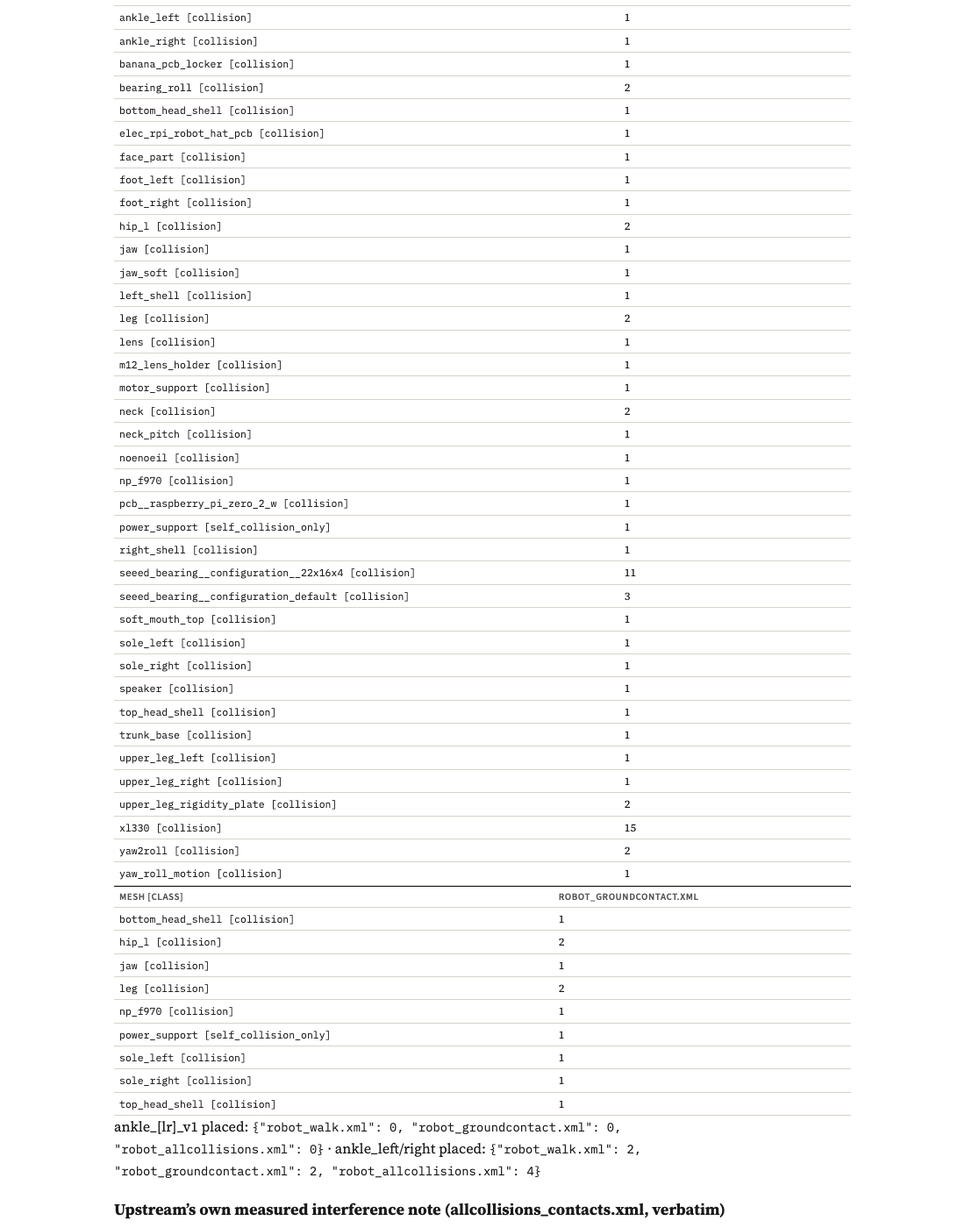
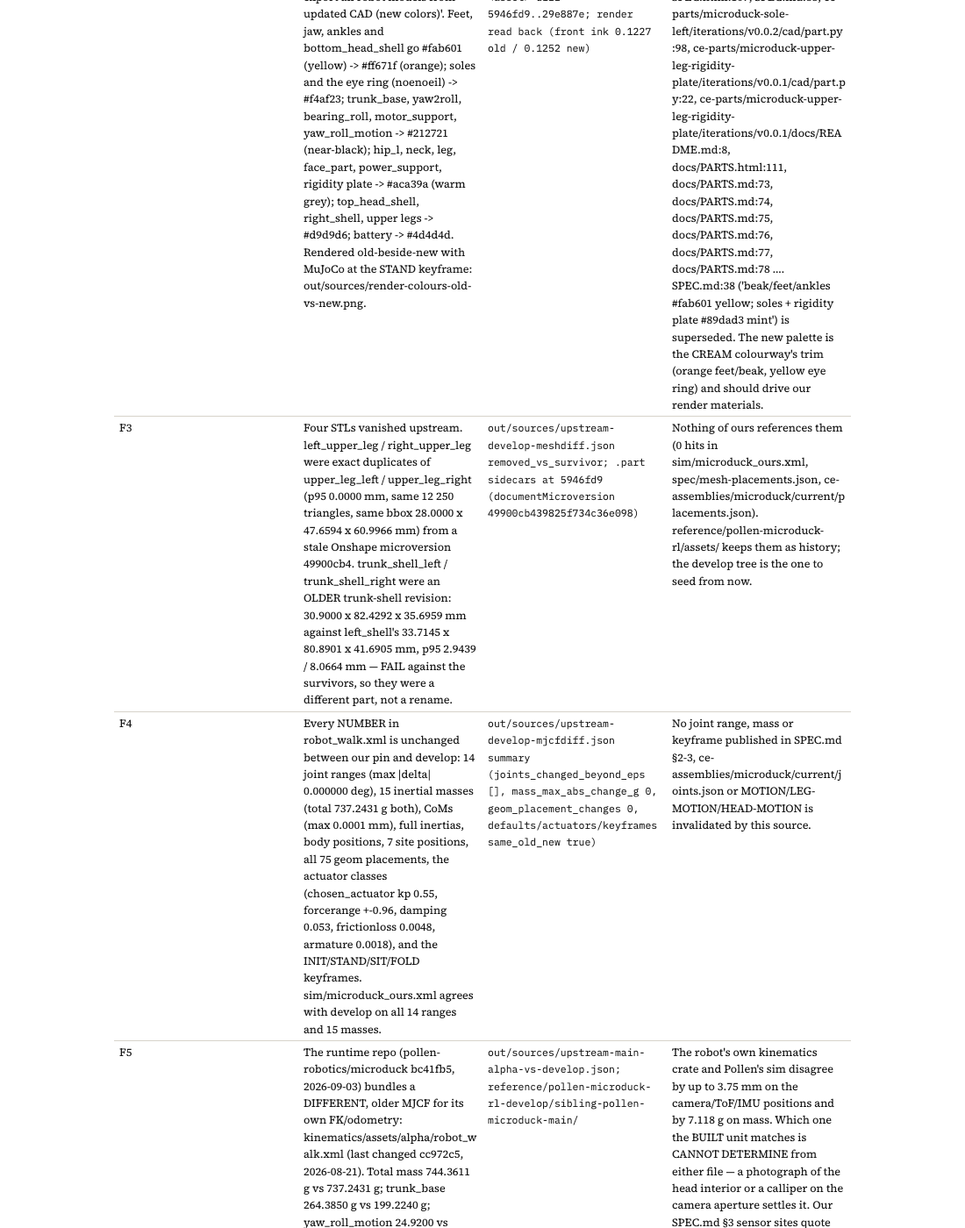
sources lane: SOURCE 2 deliverable — out/sources/upstream-develop.json + .html (tools/gen_upstream_develop.py, data-driven). pollen-robotics/microduck_rl develop 29e887e vs our 5946fd9 pin: 43/43 meshes same surface (p95 0.0000 mm both ways, bbox 0.0000), 0 STLs added, 4 removed (2 exact duplicates,

Changed region(s): [[0.1236, 0.0, 0.8655, 1.0]]

diff --git a/out/sources/upstream-develop.html b/out/sources/upstream-develop.html
@@ -11,12 +11,14 @@
  table.data{font-size:12.5px;border-collapse:collapse;width:100%} table.data th,table.data td{padding:3px 6px;border-bottom:1px solid var(--hair);text-align:left;vertical-align:top}
  table.data td code{font-size:11.5px} figure{margin:12px 0} figure img{width:100%;background:#fff;border:1px solid var(--hair)} figcaption{font-family:var(--sans);font-size:12.5px;color:var(--ink-2)}
  pre.q{font-size:12px;background:#faf8f3;border-left:3px solid var(--hair);padding:8px 12px;white-space:pre-wrap}
+ /* 11-column mesh table MEASURED 1015 px in an 840 px sheet at the inherited size (shot_page 2026-09-03): fixed layout + wrapping keeps every column on the printed page */
+ #meshes table.data{font-size:10.5px;table-layout:fixed;width:100%} #meshes td,#meshes th{overflow-wrap:anywhere} #meshes table.data th,#meshes table.data td{padding:2px 3px} #meshes td code{font-size:10px}
  #findings table.data{table-layout:fixed} #findings td:nth-child(1){width:32px} #findings td:nth-child(2){width:44%} #findings td:nth-child(3){width:22%} #findings td{overflow-wrap:anywhere}
 </style></head><body><div class="wrap">
 <p class="backlink"><a href="../../INDEX.html">← Repository index</a> · <a href="../../GOAL.md">GOAL.md</a> · <a href="../../SPEC.md">SPEC.md</a></p>
 <header class="hero"><p class="eyebrow">Microduck reverse-engineering · new sources · source 2</p>
 <h1>pollen-robotics/microduck_rl, <code>develop</code> — what moved since the copy that seeded us</h1>
-<p class="sub">The same origin as every mesh and number in our model, one branch and 24 commits later. Fetched, pinned at <code>29e887e</code>, licence quoted, then diffed file by file, mesh by mesh (cecad.meshcompare, SPEC.md §8 rule) and number by number against our <code>5946fd9</code> copy, our SPEC.md, joints.json and sim/microduck_ours.xml. Generated 2026-09-03 23:26 +0800 by tools/gen_upstream_develop.py from out/sources/*.json.</p>
+<p class="sub">The same origin as every mesh and number in our model, one branch and 24 commits later. Fetched, pinned at <code>29e887e</code>, licence quoted, then diffed file by file, mesh by mesh (cecad.meshcompare, SPEC.md §8 rule) and number by number against our <code>5946fd9</code> copy, our SPEC.md, joints.json and sim/microduck_ours.xml. Generated 2026-09-04 02:01 +0800 by tools/gen_upstream_develop.py from out/sources/*.json.</p>
 <div class="rev">Leif, verbatim: “Give the microduck these researches to injest and utilize … the cad and 3d printable files and stuff should be in these resourches tell it to dive deeply into it”.</div></header>
 <div class="statbar">
  <div class="stat"><b>43</b><span>meshes in both trees</span></div>
@@ -25,7 +27,7 @@
  <div class="stat"><b>4</b><span>STLs removed upstream</span></div>
  <div class="stat"><b>0 / 0</b><span>joint ranges / masses changed</span></div>
  <div class="stat"><b>27/38</b><span>material colours changed</span></div>
- <div class="stat"><b>56</b><span>lines of ours printing the old palette</span></div>
+ <div class="stat"><b>53</b><span>lines of ours printing the old palette</span></div>
  <div class="stat"><b>+7.1180 g</b><span>runtime MJCF vs sim MJCF</span></div>
 </div>
 <nav class="toc"><a href="#answer">1 Verdict</a> <a href="#pin">2 Pin &amp; licence</a> <a href="#files">3 Files</a> <a href="#meshes">4 Meshes</a> <a href="#numbers">5 Numbers</a> <a href="#colours">6 Colours</a> <a href="#runtime">7 Runtime model</a> <a href="#census">8 Censuses</a> <a href="#findings">9 Findings</a> <a href="#verdicts">10 Verdicts</a> <a href="#docs">11 Our documents to update</a></nav>
@@ -271,15 +273,15 @@ ATTRIBUTION: Pollen Robotics (Bordeaux), Antoine Pirrone (apirrone) — exported
 </pre></section>
 <section id="findings"><h2><span class="n">9</span>Findings</h2><table class="data"><tr><th>#</th><th>finding</th><th>evidence</th><th>what it changes</th></tr>
 <tr><td>F1</td><td>The develop tree carries NO geometry our seeded copy lacks. All 43 common STLs are the same surface: p95 0.0000 mm both ways and bbox delta 0.0000 mm on every axis (SPEC.md §8 rule, 15 000 area-weighted samples each way, no alignment). 8 meshes were re-triangulated by the re-export (different vertex set, same surface; worst single sample 2.3557 mm on upper_leg_left is a chord of the new tessellation, not a moved face). No fastener seats, insert bosses, ball sockets, STEP, print files or assembly exist anywhere in the tree — it is still onshape-to-robot&#x27;s decimated visual export (`max_stl_size: 1.0`, `simplify_stls: true` in every config_mjcf_*.json).</td><td><code>out/sources/upstream-develop-meshdiff.json (43 rows); config_mjcf_walk.json:6-7; git ls-tree 29e887e -- src/mjlab_microduck/robot/microduck (no .step/.3mf/.f3d)</code></td><td>Nothing in the CAD. The 145-hole / zero-fastener gap (GOAL.md standing order 1) is NOT closed by this source; it stays with the fastener lane and the MakerWorld source (SOURCE 1).</td></tr>
-<tr><td>F2</td><td>What DID move is colour: 27 of 38 &lt;material rgba&gt; values changed in commit 8dfc08f &#x27;re-export all robot models from updated CAD (new colors)&#x27;. Feet, jaw, ankles and bottom_head_shell go #fab601 (yellow) -&gt; #ff671f (orange); soles and the eye ring (noenoeil) -&gt; #f4af23; trunk_base, yaw2roll, bearing_roll, motor_support, yaw_roll_motion -&gt; #212721 (near-black); hip_l, neck, leg, face_part, power_support, rigidity plate -&gt; #aca39a (warm grey); top_head_shell, right_shell, upper legs -&gt; #d9d9d6; battery -&gt; #4d4d4d. Rendered old-beside-new with MuJoCo at the STAND keyframe: out/sources/render-colours-old-vs-new.png.</td><td><code>out/sources/upstream-develop-mjcfdiff.json materials; robot_walk.xml &lt;asset&gt; diff 5946fd9..29e887e; render read back (front ink 0.1227 old / 0.1252 new)</code></td><td>Every document of ours that prints the OLD MJCF palette as Pollen&#x27;s: 56 lines — SPEC.html:107, SPEC.md:38, ce-parts/microduck-sole-left/iterations/v0.0.2/cad/part.py:98, ce-parts/microduck-upper-leg-rigidity-plate/iterations/v0.0.1/cad/part.py:22, ce-parts/microduck-upper-leg-rigidity-plate/iterations/v0.0.1/docs/README.md:8, docs/PARTS.html:111, docs/PARTS.md:73, docs/PARTS.md:74, docs/PARTS.md:75, docs/PARTS.md:76, docs/PARTS.md:77, docs/PARTS.md:78 …. SPEC.md:38 (&#x27;beak/feet/ankles #fab601 yellow; soles + rigidity plate #89dad3 mint&#x27;) is superseded. The new palette is the CREAM colourway&#x27;s trim (orange feet/beak, yellow eye ring) and should drive our render materials.</td></tr>
+<tr><td>F2</td><td>What DID move is colour: 27 of 38 &lt;material rgba&gt; values changed in commit 8dfc08f &#x27;re-export all robot models from updated CAD (new colors)&#x27;. Feet, jaw, ankles and bottom_head_shell go #fab601 (yellow) -&gt; #ff671f (orange); soles and the eye ring (noenoeil) -&gt; #f4af23; trunk_base, yaw2roll, bearing_roll, motor_support, yaw_roll_motion -&gt; #212721 (near-black); hip_l, neck, leg, face_part, power_support, rigidity plate -&gt; #aca39a (warm grey); top_head_shell, right_shell, upper legs -&gt; #d9d9d6; battery -&gt; #4d4d4d. Rendered old-beside-new with MuJoCo at the STAND keyframe: out/sources/render-colours-old-vs-new.png.</td><td><code>out/sources/upstream-develop-mjcfdiff.json materials; robot_walk.xml &lt;asset&gt; diff 5946fd9..29e887e; render read back (front ink 0.1227 old / 0.1252 new)</code></td><td>Every document of ours that prints the OLD MJCF palette as Pollen&#x27;s: 53 lines — SPEC.html:107, SPEC.md:38, ce-parts/microduck-sole-left/iterations/v0.0.2/cad/part.py:98, ce-parts/microduck-upper-leg-rigidity-plate/iterations/v0.0.1/cad/part.py:22, ce-parts/microduck-upper-leg-rigidity-plate/iterations/v0.0.1/docs/README.md:8, docs/PARTS.html:111, docs/PARTS.md:73, docs/PARTS.md:74, docs/PARTS.md:75, docs/PARTS.md:76, docs/PARTS.md:77, docs/PARTS.md:78 …. SPEC.md:38 (&#x27;beak/feet/ankles #fab601 yellow; soles + rigidity plate #89dad3 mint&#x27;) is superseded. The new palette is the CREAM colourway&#x27;s trim (orange feet/beak, yellow eye ring) and should drive our render materials.</td></tr>
 <tr><td>F3</td><td>Four STLs vanished upstream. left_upper_leg / right_upper_leg were exact duplicates of upper_leg_left / upper_leg_right (p95 0.0000 mm, same 12 250 triangles, same bbox 28.0000 x 47.6594 x 60.9966 mm) from a stale Onshape microversion 49900cb4. trunk_shell_left / trunk_shell_right were an OLDER trunk-shell revision: 30.9000 x 82.4292 x 35.6959 mm against left_shell&#x27;s 33.7145 x 80.8901 x 41.6905 mm, p95 2.9439 / 8.0664 mm — FAIL against the survivors, so they were a different part, not a rename.</td><td><code>out/sources/upstream-develop-meshdiff.json removed_vs_survivor; .part sidecars at 5946fd9 (documentMicroversion 49900cb439825f734c36e098)</code></td><td>Nothing of ours references them (0 hits in sim/microduck_ours.xml, spec/mesh-placements.json, ce-assemblies/microduck/current/placements.json). reference/pollen-microduck-rl/assets/ keeps them as history; the develop tree is the one to seed from now.</td></tr>
 <tr><td>F4</td><td>Every NUMBER in robot_walk.xml is unchanged between our pin and develop: 14 joint ranges (max |delta| 0.000000 deg), 15 inertial masses (total 737.2431 g both), CoMs (max 0.0001 mm), full inertias, body positions, 7 site positions, all 75 geom placements, the actuator classes (chosen_actuator kp 0.55, forcerange +-0.96, damping 0.053, frictionloss 0.0048, armature 0.0018), and the INIT/STAND/SIT/FOLD keyframes. sim/microduck_ours.xml agrees with develop on all 14 ranges and 15 masses.</td><td><code>out/sources/upstream-develop-mjcfdiff.json summary (joints_changed_beyond_eps [], mass_max_abs_change_g 0, geom_placement_changes 0, defaults/actuators/keyframes same_old_new true)</code></td><td>No joint range, mass or keyframe published in SPEC.md §2-3, ce-assemblies/microduck/current/joints.json or MOTION/LEG-MOTION/HEAD-MOTION is invalidated by this source.</td></tr>
 <tr><td>F5</td><td>The runtime repo (pollen-robotics/microduck bc41fb5, 2026-09-03) bundles a DIFFERENT, older MJCF for its own FK/odometry: kinematics/assets/alpha/robot_walk.xml (last changed cc972c5, 2026-08-21). Total mass 744.3611 g vs 737.2431 g; trunk_base 264.3850 g vs 199.2240 g; yaw_roll_motion 24.9200 vs 48.6000 g; ankles 26.4653 vs 30.0246 g; the head body is still named bottom_head_shell (develop: jaw_soft); head_camera / head_imu / tof sites sit +3.7500 mm further forward (x) and +0.2000 mm up; the trunk imu site is at z -14.8911 vs -14.6984 mm; the neck body origin differs by (0, -0.0011, -0.0209) mm; and it carries an extra site imu_bno at (-32.0000, 14.0011, 43.0618) mm that develop dropped. Joint ranges are identical (max 3.0e-12 deg).</td><td><code>out/sources/upstream-main-alpha-vs-develop.json; reference/pollen-microduck-rl-develop/sibling-pollen-microduck-main/</code></td><td>The robot&#x27;s own kinematics crate and Pollen&#x27;s sim disagree by up to 3.75 mm on the camera/ToF/IMU positions and by 7.118 g on mass. Which one the BUILT unit matches is CANNOT DETERMINE from either file — a photograph of the head interior or a calliper on the camera aperture settles it. Our SPEC.md §3 sensor sites quote the sim values; they should say the runtime disagrees.</td></tr>
 <tr><td>F6</td><td>Pollen MEASURED an interference in their own model and wrote it into the tree: allcollisions_contacts.xml — &#x27;The jaw closed-loop linkage positions the jaw/bottom_head_shell meshes (merged into the jaw_soft body) 2-4.5mm inside the neck_pitch bracket and its bearing in EVERY pose - a permanent phantom self-contact, measured at the INIT/STAND/SIT keyframes on the 2026-09 export.&#x27; They exclude the neck_pitch/jaw_soft contact pair rather than move geometry.</td><td><code>reference/pollen-microduck-rl-develop/microduck/allcollisions_contacts.xml:1-10; additional.xml:8-12 (the older &#x27;jaw overlaps bottom head shell by ~2cm&#x27; note)</code></td><td>The head-to-neck_pitch interface cannot be taken from these meshes as-is: as placed, the head shells penetrate the neck_pitch bracket by 2-4.5 mm. The joints/harness lane must measure that clash on our assembly (cecad.clearance) and the real bracket clearance is CANNOT DETERMINE until a unit is measured.</td></tr>
 <tr><td>F7</td><td>New upstream file robot_allcollisions.xml is a TRUE all-collisions export (every part gets a collision geom) and doubles as a per-instance census: 70 collision geoms over 37 meshes — xl330 x15, seeed_bearing 22x16x4 x11, seeed_bearing default (15x10x3) x3, neck x2, leg x2, hip_l x2, bearing_roll x2, yaw2roll x2, upper_leg_rigidity_plate x2, everything else x1; power_support demoted to self_collision_only.</td><td><code>regex census of reference/pollen-microduck-rl-develop/microduck/robot_allcollisions.xml (this generator, collision_census)</code></td><td>Corroborates SPEC.md §4 (15 servos, bearings 11 + 3). A ready-made full-contact model for the simulation lane&#x27;s drop/self-collision runs — no task upstream uses it yet (microduck_constants.py:22-25).</td></tr>
 <tr><td>F8</td><td>Upstream defect inherited by every sim of ours copied from &#x27;allcollisions&#x27;: config_mjcf_groundcontact.json&#x27;s ignore list un-ignores parts by their OLD Onshape names (&#x27;!left_upper_leg&#x27;, &#x27;!right_upper_leg&#x27;, &#x27;!trunk_shell_left&#x27;, &#x27;!trunk_shell_right&#x27;), but the exported parts are now named upper_leg_left / left_shell etc., so the thighs and the trunk shells carry NO collision geom in robot_groundcontact.xml (measured census: bottom_head_shell, hip_l x2, jaw, leg x2, np_f970, sole_left, sole_right, top_head_shell, power_support[self] — nothing else). microduck_constants.py:17-20 claims the set includes &#x27;trunk shells&#x27;. Same census in our 5946fd9 copy&#x27;s robot_allcollisions.xml.</td><td><code>config_mjcf_groundcontact.json:8-21; regex census of robot_groundcontact.xml (this generator); .part names upper_leg_left &lt;1&gt;, left_shell &lt;1&gt;</code></td><td>out/sim-sweep/scene_walk_allcollisions.xml and every &#x27;allcollisions&#x27; run in SIMULATION.html modelled a robot whose thighs and egg shells cannot touch the floor. Sit/stand/roulade and fall results that rest on that model need re-judging against robot_allcollisions.xml (F7).</td></tr>
-<tr><td>F9</td><td>Licence, settled from the primary text: README.md:260-261 at 29e887e reads &#x27;This project is licensed under the Apache 2.0 License. See the LICENSE file for details.&#x27; / &#x27;3D model files are licensed under Creative Commons BY-SA-NC.&#x27; — no version number, and the CC text is not shipped (LICENSE is Apache-2.0 only). The same two lines were at README.md:195-196 in our 5946fd9 copy.</td><td><code>reference/pollen-microduck-rl-develop/microduck_rl_README.md:258-261; reference/pollen-microduck-rl-develop/LICENSE-Apache-2.0.txt</code></td><td>Cite &#x27;CC BY-SA-NC (version not stated)&#x27;. 40 lines of ours assert &#x27;4.0&#x27; that the source does not: ce-parts/microduck-bottom-head-shell/component.json:13, ce-parts/microduck-eye-ring/iterations/v0.0.1/cad/part.py:6, ce-parts/microduck-face-part/component.json:13, ce-parts/microduck-foot-left/component.json:11, ce-parts/microduck-foot-left/iterations/v0.0.1/cad/part.py:7, ce-parts/microduck-foot-left/iterations/v0.0.1/docs/README.md:3, ce-parts/microduck-foot-right/component.json:11, ce-parts/microduck-foot-right/iterations/v0.0.1/cad/part.py:7, ce-parts/microduck-foot-right/iterations/v0.0.1/docs/README.md:3, ce-parts/microduck-jaw-soft/component.json:11, ce-parts/microduck-jaw-soft/iterations/v0.0.1/cad/part.py:7, ce-parts/microduck-jaw-soft/iterations/v0.0.1/docs/README.md:3, ce-parts/microduck-jaw/component.json:11, ce-parts/microduck-jaw/iterations/v0.0.1/cad/part.py:7, ce-parts/microduck-jaw/iterations/v0.0.1/docs/README.md:3, ce-parts/microduck-m12-lens-holder/component.json:13, ce-parts/microduck-m12-lens/component.json:13, ce-parts/microduck-motor-support/iterations/v0.0.1/cad/part.py:7, ce-parts/microduck-motor-support/iterations/v0.0.1/docs/README.md:3, ce-parts/microduck-robot-hat-pcb/component.json:13, ce-parts/microduck-soft-mouth-top/component.json:11, ce-parts/microduck-soft-mouth-top/iterations/v0.0.1/cad/part.py:7, ce-parts/microduck-soft-mouth-top/iterations/v0.0.1/docs/README.md:3, ce-parts/microduck-sole-left/component.json:11, ce-parts/microduck-sole-left/iterations/v0.0.1/cad/part.py:7, ce-parts/microduck-sole-left/iterations/v0.0.1/docs/README.md:3, ce-parts/microduck-sole-right/component.json:11, ce-parts/microduck-sole-right/iterations/v0.0.1/cad/part.py:7, ce-parts/microduck-sole-right/iterations/v0.0.1/docs/README.md:3, ce-parts/microduck-top-head-shell/component.json:11, ce-parts/microduck-top-head-shell/iterations/v0.0.1/cad/part.py:7, ce-parts/microduck-top-head-shell/iterations/v0.0.1/docs/README.md:3, ce-parts/microduck-trunk-shell-left/component.json:11, ce-parts/microduck-trunk-shell-left/iterations/v0.0.1/cad/part.py:7, ce-parts/microduck-trunk-shell-left/iterations/v0.0.1/docs/README.md:3, ce-parts/microduck-trunk-shell-right/component.json:11, ce-parts/microduck-trunk-shell-right/iterations/v0.0.1/cad/part.py:7, ce-parts/microduck-trunk-shell-right/iterations/v0.0.1/docs/README.md:3, tools/head_eye_ring_shelve.py:28 — ce-parts/microduck-eye-ring/component.json:15 already has it right (&#x27;version not stated&#x27;); the two &#x27;4.0&#x27; strings are lane A&#x27;s to drop.</td></tr>
-<tr><td>F10</td><td>Runtime constants read off pollen-robotics/microduck (bc41fb5) corroborate SPEC.md: mouth travel -5 deg closed / +30 deg open (duck-control/src/model.rs:62-63); battery window 6.6-8.2 V (model.rs:109,113 BATTERY_EMPTY_V/BATTERY_FULL_V); servo position gain 200 (deploy/robotd.toml:136 &#x27;gain = 200&#x27;, joints_properties.xml &#x27;200 kp&#x27;, microduck_constants.py kp_fw=200); IDs 30-34 = neck, head, mouth (model.rs:17); bus /dev/ttyS2 at 50 Hz (robotd.toml:20,41). The ToF is named specifically: &#x27;tof VL53L8CX · 15 Hz · 8x8 · 48/64 ranged · 0.12-3.54 m&#x27; (docs/robot/cheatsheet.md:691) where SPEC.md §5 hedges &#x27;VL53L5CX/L8CX&#x27;. BAM actuator domain randomisation upstream: vin 6.5-8.2 V, load sag gain 0-0.2, vin_min 6.0, 3-6 tick delay, backlash +-1 deg (2 deg total).</td><td><code>reference/pollen-microduck-rl-develop/sibling-pollen-microduck-main/deploy/robotd.toml; microduck_constants.py:132-144; microduck_rl add_backlash.py:26-28</code></td><td>SPEC.md §5 ToF row can name VL53L8CX (cheatsheet line 691 is the live monitor&#x27;s own header). SPEC.html:122, SPEC.md:127, ce-parts/microduck-robot-hat-pcb/iterations/v0.0.1/cad/part.py:19, research/01-product-and-specs.md:376, research/02-repos-and-code.md:28, research/microduck-elec-grep.txt:424, research/microduck-elec-grep.txt:428, tools/gen_upstream_develop.py:136, tools/gen_upstream_develop.py:86, tools/internals_render.py:87, wiring/README.md:191, workflows/w3-electronics.js:12</td></tr>
+<tr><td>F9</td><td>Licence, settled from the primary text: README.md:260-261 at 29e887e reads &#x27;This project is licensed under the Apache 2.0 License. See the LICENSE file for details.&#x27; / &#x27;3D model files are licensed under Creative Commons BY-SA-NC.&#x27; — no version number, and the CC text is not shipped (LICENSE is Apache-2.0 only). The same two lines were at README.md:195-196 in our 5946fd9 copy.</td><td><code>reference/pollen-microduck-rl-develop/microduck_rl_README.md:258-261; reference/pollen-microduck-rl-develop/LICENSE-Apache-2.0.txt</code></td><td>Cite &#x27;CC BY-SA-NC (version not stated)&#x27;. 41 lines of ours assert &#x27;4.0&#x27; that the source does not, across 17 ce-parts folders (component.json, cad/part.py, docs/README.md) plus tools/head_eye_ring_shelve.py:28 — full list in §11. ce-parts/microduck-eye-ring/component.json:15 already has it right (&#x27;version not stated&#x27;). Each folder&#x27;s owner drops the &#x27;4.0&#x27; in an append-only ledger row; this lane does not edit other lanes&#x27; folders.</td></tr>
+<tr><td>F10</td><td>Runtime constants read off pollen-robotics/microduck (bc41fb5) corroborate SPEC.md: mouth travel -5 deg closed / +30 deg open (duck-control/src/model.rs:62-63); battery window 6.6-8.2 V (model.rs:109,113 BATTERY_EMPTY_V/BATTERY_FULL_V); servo position gain 200 (deploy/robotd.toml:136 &#x27;gain = 200&#x27;, joints_properties.xml &#x27;200 kp&#x27;, microduck_constants.py kp_fw=200); IDs 30-34 = neck, head, mouth (model.rs:17); bus /dev/ttyS2 at 50 Hz (robotd.toml:20,41). The ToF is named specifically: &#x27;tof VL53L8CX · 15 Hz · 8x8 · 48/64 ranged · 0.12-3.54 m&#x27; (docs/robot/cheatsheet.md:691) where SPEC.md §5 hedges &#x27;VL53L5CX/L8CX&#x27;. BAM actuator domain randomisation upstream: vin 6.5-8.2 V, load sag gain 0-0.2, vin_min 6.0, 3-6 tick delay, backlash +-1 deg (2 deg total).</td><td><code>reference/pollen-microduck-rl-develop/sibling-pollen-microduck-main/deploy/robotd.toml; microduck_constants.py:132-144; microduck_rl add_backlash.py:26-28</code></td><td>SPEC.md §5 ToF row can name VL53L8CX (cheatsheet line 691 is the live monitor&#x27;s own header). LICENCE-POSITION.html:190, SPEC.html:122, SPEC.md:127, ce-parts/microduck-robot-hat-pcb/iterations/v0.0.1/cad/part.py:19, research/01-product-and-specs.md:376, research/02-repos-and-code.md:28, research/microduck-elec-grep.txt:424, research/microduck-elec-grep.txt:428, tools/internals_render.py:87, wiring/README.md:191, workflows/w3-electronics.js:12</td></tr>
 <tr><td>F11</td><td>Onshape provenance is cleaner upstream: all 37 core .part sidecars now carry ONE documentMicroversion 2f167ea7efece4caa36b89eb (plus 9306fb07 for jaw_soft / soft_mouth_top / neck_pitch and f694115e for rim / tire / roller_blade, unchanged), where our 5946fd9 copy mixed five microversions (fc823765 x31, 48ccc523 x6, 49900cb4 x4, 9306fb07 x3, f694115e x3). The document is still 804927696f06d877f3f1803e, workspace 5b75db19292e71970de02dee, element ef6e972847fec8d82570b35e (config_mjcf_*.json url), and still not readable without a key.</td><td><code>reference/pollen-microduck-rl-develop/microduck/assets/*.part; config_mjcf_walk.json:2</code></td><td>SPEC.md §1&#x27;s Onshape row can carry the workspace/element ids; every ce-parts folder that cites a .part microversion should cite 2f167ea7 from now on.</td></tr>
 <tr><td>F12</td><td>Two things in the tree were never in reference/ before: robot/xl330_test_bench/ (Pollen&#x27;s BAM servo-identification rig — 11 STL + MJCF, a 100 g arm on a +-80 deg hinge, its own Onshape element 54c1186243f1b4db10e4bd59) and apartment.xml / scene_apartment.xml (a walk-around scene, no mechanics). The test bench&#x27;s xl330.stl is byte-identical to our OLD xl330.stl (sha256 c9f6bf7d…), i.e. the servo mesh before the 2026-09-01 re-export.</td><td><code>reference/pollen-microduck-rl-develop/xl330_test_bench/; shasum of xl330_test_bench/assets/xl330.stl vs reference/pollen-microduck-rl/assets/xl330.stl</code></td><td>The rig is a candidate for TEST-PLAN.html&#x27;s servo-characterisation step (a printable fixture that Pollen themselves used to fit the BAM model).</td></tr>
 <tr><td>F13</td><td>Ankle revision (GOAL.md finding 4): develop still SHIPS ankle_l_v1 / ankle_r_v1 STLs but PLACES none of them — 0 geoms reference ankle_[lr]_v1 in robot_walk.xml, robot_groundcontact.xml or robot_allcollisions.xml, while ankle_left / ankle_right are placed 2 / 2 / 4 times. The _v1 pair is an unplaced export of an older part.</td><td><code>regex count of mesh=&quot;ankle_[lr]_v1&quot; vs mesh=&quot;ankle_(left|right)&quot; across the three develop models (this generator)</code></td><td>ankle_left / ankle_right are current in Pollen&#x27;s own model; ankle_l_v1 / ankle_r_v1 should not be drawn, quoted or priced as a live part.</td></tr>
@@ -290,7 +292,7 @@ ATTRIBUTION: Pollen Robotics (Bordeaux), Antoine Pirrone (apirrone) — exported
 <tr><td>Every common mesh within SPEC.md §8 (p95 &lt;= 1.0 mm both ways, bbox &lt;= 1.5 mm/axis) between pin and develop</td><td><span class="chip ok">PASS</span></td><td>43/43 PASS, worst p95 0.0000 mm, worst bbox delta 0.0000 mm</td></tr>
 <tr><td>Develop carries geometry our seeded copy lacked (fasteners, inserts, ball sockets, print files, assembly, newer head shell)</td><td><span class="chip no">FAIL</span></td><td>0 new STLs (only_in_new = []); 43/43 surfaces identical; no STEP/3MF/assembly in the tree; top_head_shell p95 0.0000 mm</td></tr>
 <tr><td>Joint ranges, masses, inertials, actuator params, keyframes unchanged upstream (nothing of ours invalidated)</td><td><span class="chip ok">PASS</span></td><td>upstream-develop-mjcfdiff.json: 0 joints changed, 0 inertials changed, defaults/actuators/keyframes identical; ours agrees on 14/14 ranges and 15/15 masses</td></tr>
-<tr><td>Material colours unchanged upstream</td><td><span class="chip no">FAIL</span></td><td>27/38 rgba changed; 56 lines of ours print the old palette</td></tr>
+<tr><td>Material colours unchanged upstream</td><td><span class="chip no">FAIL</span></td><td>27/38 rgba changed; 53 lines of ours print the old palette</td></tr>
 <tr><td>Runtime repo&#x27;s bundled MJCF agrees with the sim MJCF</td><td><span class="chip no">FAIL</span></td><td>total mass 744.3611 vs 737.2431 g; head sites +3.7500 mm x; trunk imu z -14.8911 vs -14.6984 mm</td></tr>
 <tr><td>Which of the two head sensor-site positions the built unit has</td><td><span class="chip cd">CANNOT DETERMINE</span></td><td>two official files disagree by 3.75 mm; settled by a photograph of the head interior or a calliper on the camera aperture</td></tr>
 <tr><td>Real clearance between head shells and neck_pitch bracket</td><td><span class="chip cd">CANNOT DETERMINE</span></td><td>Pollen measured 2-4.5 mm interference in their own export (allcollisions_contacts.xml) and excluded the contact instead of fixing geometry</td></tr>
@@ -298,8 +300,8 @@ ATTRIBUTION: Pollen Robotics (Bordeaux), Antoine Pirrone (apirrone) — exported
 <tr><td>Current ankle revision</td><td><span class="chip ok">PASS</span></td><td>ankle_left/right placed in all three models; ankle_[lr]_v1 placed 0 times ({&#x27;robot_walk.xml&#x27;: 0, &#x27;robot_groundcontact.xml&#x27;: 0, &#x27;robot_allcollisions.xml&#x27;: 0})</td></tr>
 </table></section>
 <section id="docs"><h2><span class="n">11</span>Our documents that carry something this source superseded</h2>
-<h3>old mjcf palette lines — 56</h3><ul><li><code>SPEC.html:107</code></li><li><code>SPEC.md:38</code></li><li><code>ce-parts/microduck-sole-left/iterations/v0.0.2/cad/part.py:98</code></li><li><code>ce-parts/microduck-upper-leg-rigidity-plate/iterations/v0.0.1/cad/part.py:22</code></li><li><code>ce-parts/microduck-upper-leg-rigidity-plate/iterations/v0.0.1/docs/README.md:8</code></li><li><code>docs/PARTS.html:111</code></li><li><code>docs/PARTS.md:73</code></li><li><code>docs/PARTS.md:74</code></li><li><code>docs/PARTS.md:75</code></li><li><code>docs/PARTS.md:76</code></li><li><code>docs/PARTS.md:77</code></li><li><code>docs/PARTS.md:78</code></li><li><code>docs/PARTS.md:79</code></li><li><code>docs/PARTS.md:80</code></li><li><code>docs/PARTS.md:83</code></li><li><code>docs/PARTS.md:86</code></li><li><code>docs/PARTS.md:91</code></li><li><code>sim/microduck_ours.xml:383</code></li><li><code>sim/microduck_ours.xml:385</code></li><li><code>sim/microduck_ours.xml:386</code></li><li><code>sim/microduck_ours.xml:388</code></li><li><code>sim/microduck_ours.xml:400</code></li><li><code>sim/microduck_ours.xml:401</code></li><li><code>sim/microduck_ours.xml:406</code></li><li><code>sim/microduck_ours.xml:407</code></li><li><code>sim/microduck_ours.xml:408</code></li><li><code>sim/microduck_ours_allcollisions.xml:389</code></li><li><code>sim/microduck_ours_allcollisions.xml:391</code></li><li><code>sim/microduck_ours_allcollisions.xml:392</code></li><li><code>sim/microduck_ours_allcollisions.xml:394</code></li><li><code>sim/microduck_ours_allcollisions.xml:406</code></li><li><code>sim/microduck_ours_allcollisions.xml:407</code></li><li><code>sim/microduck_ours_allcollisions.xml:412</code></li><li><code>sim/microduck_ours_allcollisions.xml:413</code></li><li><code>sim/microduck_ours_allcollisions.xml:414</code></li><li><code>sim/microduck_ours_fullcontact.xml:385</code></li><li><code>sim/microduck_ours_fullcontact.xml:387</code></li><li><code>sim/microduck_ours_fullcontact.xml:388</code></li><li><code>sim/microduck_ours_fullcontact.xml:390</code></li><li><code>sim/microduck_ours_fullcontact.xml:402</code></li><li><code>sim/microduck_ours_fullcontact.xml:403</code></li><li><code>sim/microduck_ours_fullcontact.xml:408</code></li><li><code>sim/microduck_ours_fullcontact.xml:409</code></li><li><code>sim/microduck_ours_fullcontact.xml:410</code></li><li><code>sim/microduck_ours_selfcontact.xml:385</code></li><li><code>sim/microduck_ours_selfcontact.xml:387</code></li><li><code>sim/microduck_ours_selfcontact.xml:388</code></li><li><code>sim/microduck_ours_selfcontact.xml:390</code></li><li><code>sim/microduck_ours_selfcontact.xml:402</code></li><li><code>sim/microduck_ours_selfcontact.xml:403</code></li><li><code>sim/microduck_ours_selfcontact.xml:408</code></li><li><code>sim/microduck_ours_selfcontact.xml:409</code></li><li><code>sim/microduck_ours_selfcontact.xml:410</code></li><li><code>tools/gen_upstream_develop.py:112</code></li><li><code>tools/gen_upstream_develop.py:114</code></li><li><code>tools/gen_upstream_develop.py:83</code></li></ul>
-<h3>licence version asserted lines — 40</h3><ul><li><code>ce-parts/microduck-bottom-head-shell/component.json:13</code></li><li><code>ce-parts/microduck-eye-ring/iterations/v0.0.1/cad/part.py:6</code></li><li><code>ce-parts/microduck-face-part/component.json:13</code></li><li><code>ce-parts/microduck-foot-left/component.json:11</code></li><li><code>ce-parts/microduck-foot-left/iterations/v0.0.1/cad/part.py:7</code></li><li><code>ce-parts/microduck-foot-left/iterations/v0.0.1/docs/README.md:3</code></li><li><code>ce-parts/microduck-foot-right/component.json:11</code></li><li><code>ce-parts/microduck-foot-right/iterations/v0.0.1/cad/part.py:7</code></li><li><code>ce-parts/microduck-foot-right/iterations/v0.0.1/docs/README.md:3</code></li><li><code>ce-parts/microduck-jaw-soft/component.json:11</code></li><li><code>ce-parts/microduck-jaw-soft/iterations/v0.0.1/cad/part.py:7</code></li><li><code>ce-parts/microduck-jaw-soft/iterations/v0.0.1/docs/README.md:3</code></li><li><code>ce-parts/microduck-jaw/component.json:11</code></li><li><code>ce-parts/microduck-jaw/iterations/v0.0.1/cad/part.py:7</code></li><li><code>ce-parts/microduck-jaw/iterations/v0.0.1/docs/README.md:3</code></li><li><code>ce-parts/microduck-m12-lens-holder/component.json:13</code></li><li><code>ce-parts/microduck-m12-lens/component.json:13</code></li><li><code>ce-parts/microduck-motor-support/iterations/v0.0.1/cad/part.py:7</code></li><li><code>ce-parts/microduck-motor-support/iterations/v0.0.1/docs/README.md:3</code></li><li><code>ce-parts/microduck-robot-hat-pcb/component.json:13</code></li><li><code>ce-parts/microduck-soft-mouth-top/component.json:11</code></li><li><code>ce-parts/microduck-soft-mouth-top/iterations/v0.0.1/cad/part.py:7</code></li><li><code>ce-parts/microduck-soft-mouth-top/iterations/v0.0.1/docs/README.md:3</code></li><li><code>ce-parts/microduck-sole-left/component.json:11</code></li><li><code>ce-parts/microduck-sole-left/iterations/v0.0.1/cad/part.py:7</code></li><li><code>ce-parts/microduck-sole-left/iterations/v0.0.1/docs/README.md:3</code></li><li><code>ce-parts/microduck-sole-right/component.json:11</code></li><li><code>ce-parts/microduck-sole-right/iterations/v0.0.1/cad/part.py:7</code></li><li><code>ce-parts/microduck-sole-right/iterations/v0.0.1/docs/README.md:3</code></li><li><code>ce-parts/microduck-top-head-shell/component.json:11</code></li><li><code>ce-parts/microduck-top-head-shell/iterations/v0.0.1/cad/part.py:7</code></li><li><code>ce-parts/microduck-top-head-shell/iterations/v0.0.1/docs/README.md:3</code></li><li><code>ce-parts/microduck-trunk-shell-left/component.json:11</code></li><li><code>ce-parts/microduck-trunk-shell-left/iterations/v0.0.1/cad/part.py:7</code></li><li><code>ce-parts/microduck-trunk-shell-left/iterations/v0.0.1/docs/README.md:3</code></li><li><code>ce-parts/microduck-trunk-shell-right/component.json:11</code></li><li><code>ce-parts/microduck-trunk-shell-right/iterations/v0.0.1/cad/part.py:7</code></li><li><code>ce-parts/microduck-trunk-shell-right/iterations/v0.0.1/docs/README.md:3</code></li><li><code>research/01-product-and-specs.md:389</code></li><li><code>tools/head_eye_ring_shelve.py:28</code></li></ul>
-<h3>old pin 5946fd9 lines — 18</h3><ul><li><code>research/02-repos-and-code.md:29</code></li><li><code>tools/gen_upstream_develop.py:10</code></li><li><code>tools/gen_upstream_develop.py:113</code></li><li><code>tools/gen_upstream_develop.py:116</code></li><li><code>tools/gen_upstream_develop.py:130</code></li><li><code>tools/gen_upstream_develop.py:133</code></li><li><code>tools/gen_upstream_develop.py:139</code></li><li><code>tools/gen_upstream_develop.py:167</code></li><li><code>tools/gen_upstream_develop.py:276</code></li><li><code>tools/gen_upstream_develop.py:286</code></li><li><code>tools/gen_upstream_develop.py:29</code></li><li><code>tools/gen_upstream_develop.py:85</code></li><li><code>tools/upstream_meshdiff.py:38</code></li><li><code>tools/upstream_mjcfdiff.py:14</code></li><li><code>tools/upstream_mjcfdiff.py:3</code></li><li><code>tools/upstream_mjcfdiff.py:97</code></li><li><code>tools/upstream_render.py:14</code></li><li><code>tools/upstream_render.py:3</code></li></ul>
-<h3>tof hedged lines — 12</h3><ul><li><code>SPEC.html:122</code></li><li><code>SPEC.md:127</code></li><li><code>ce-parts/microduck-robot-hat-pcb/iterations/v0.0.1/cad/part.py:19</code></li><li><code>research/01-product-and-specs.md:376</code></li><li><code>research/02-repos-and-code.md:28</code></li><li><code>research/microduck-elec-grep.txt:424</code></li><li><code>research/microduck-elec-grep.txt:428</code></li><li><code>tools/gen_upstream_develop.py:136</code></li><li><code>tools/gen_upstream_develop.py:86</code></li><li><code>tools/internals_render.py:87</code></li><li><code>wiring/README.md:191</code></li><li><code>workflows/w3-electronics.js:12</code></li></ul>
+<h3>old mjcf palette lines — 53</h3><ul><li><code>SPEC.html:107</code></li><li><code>SPEC.md:38</code></li><li><code>ce-parts/microduck-sole-left/iterations/v0.0.2/cad/part.py:98</code></li><li><code>ce-parts/microduck-upper-leg-rigidity-plate/iterations/v0.0.1/cad/part.py:22</code></li><li><code>ce-parts/microduck-upper-leg-rigidity-plate/iterations/v0.0.1/docs/README.md:8</code></li><li><code>docs/PARTS.html:111</code></li><li><code>docs/PARTS.md:73</code></li><li><code>docs/PARTS.md:74</code></li><li><code>docs/PARTS.md:75</code></li><li><code>docs/PARTS.md:76</code></li><li><code>docs/PARTS.md:77</code></li><li><code>docs/PARTS.md:78</code></li><li><code>docs/PARTS.md:79</code></li><li><code>docs/PARTS.md:80</code></li><li><code>docs/PARTS.md:83</code></li><li><code>docs/PARTS.md:86</code></li><li><code>docs/PARTS.md:91</code></li><li><code>sim/microduck_ours.xml:383</code></li><li><code>sim/microduck_ours.xml:385</code></li><li><code>sim/microduck_ours.xml:386</code></li><li><code>sim/microduck_ours.xml:388</code></li><li><code>sim/microduck_ours.xml:400</code></li><li><code>sim/microduck_ours.xml:401</code></li><li><code>sim/microduck_ours.xml:406</code></li><li><code>sim/microduck_ours.xml:407</code></li><li><code>sim/microduck_ours.xml:408</code></li><li><code>sim/microduck_ours_allcollisions.xml:389</code></li><li><code>sim/microduck_ours_allcollisions.xml:391</code></li><li><code>sim/microduck_ours_allcollisions.xml:392</code></li><li><code>sim/microduck_ours_allcollisions.xml:394</code></li><li><code>sim/microduck_ours_allcollisions.xml:406</code></li><li><code>sim/microduck_ours_allcollisions.xml:407</code></li><li><code>sim/microduck_ours_allcollisions.xml:412</code></li><li><code>sim/microduck_ours_allcollisions.xml:413</code></li><li><code>sim/microduck_ours_allcollisions.xml:414</code></li><li><code>sim/microduck_ours_fullcontact.xml:385</code></li><li><code>sim/microduck_ours_fullcontact.xml:387</code></li><li><code>sim/microduck_ours_fullcontact.xml:388</code></li><li><code>sim/microduck_ours_fullcontact.xml:390</code></li><li><code>sim/microduck_ours_fullcontact.xml:402</code></li><li><code>sim/microduck_ours_fullcontact.xml:403</code></li><li><code>sim/microduck_ours_fullcontact.xml:408</code></li><li><code>sim/microduck_ours_fullcontact.xml:409</code></li><li><code>sim/microduck_ours_fullcontact.xml:410</code></li><li><code>sim/microduck_ours_selfcontact.xml:385</code></li><li><code>sim/microduck_ours_selfcontact.xml:387</code></li><li><code>sim/microduck_ours_selfcontact.xml:388</code></li><li><code>sim/microduck_ours_selfcontact.xml:390</code></li><li><code>sim/microduck_ours_selfcontact.xml:402</code></li><li><code>sim/microduck_ours_selfcontact.xml:403</code></li><li><code>sim/microduck_ours_selfcontact.xml:408</code></li><li><code>sim/microduck_ours_selfcontact.xml:409</code></li><li><code>sim/microduck_ours_selfcontact.xml:410</code></li></ul>
+<h3>licence version asserted lines — 42</h3><ul><li><code>LICENCE-POSITION.html:128</code></li><li><code>LICENCE-POSITION.html:165</code></li><li><code>ce-parts/microduck-bottom-head-shell/component.json:13</code></li><li><code>ce-parts/microduck-eye-ring/iterations/v0.0.1/cad/part.py:6</code></li><li><code>ce-parts/microduck-face-part/component.json:13</code></li><li><code>ce-parts/microduck-foot-left/component.json:11</code></li><li><code>ce-parts/microduck-foot-left/iterations/v0.0.1/cad/part.py:7</code></li><li><code>ce-parts/microduck-foot-left/iterations/v0.0.1/docs/README.md:3</code></li><li><code>ce-parts/microduck-foot-right/component.json:11</code></li><li><code>ce-parts/microduck-foot-right/iterations/v0.0.1/cad/part.py:7</code></li><li><code>ce-parts/microduck-foot-right/iterations/v0.0.1/docs/README.md:3</code></li><li><code>ce-parts/microduck-jaw-soft/component.json:11</code></li><li><code>ce-parts/microduck-jaw-soft/iterations/v0.0.1/cad/part.py:7</code></li><li><code>ce-parts/microduck-jaw-soft/iterations/v0.0.1/docs/README.md:3</code></li><li><code>ce-parts/microduck-jaw/component.json:11</code></li><li><code>ce-parts/microduck-jaw/iterations/v0.0.1/cad/part.py:7</code></li><li><code>ce-parts/microduck-jaw/iterations/v0.0.1/docs/README.md:3</code></li><li><code>ce-parts/microduck-m12-lens-holder/component.json:13</code></li><li><code>ce-parts/microduck-m12-lens/component.json:13</code></li><li><code>ce-parts/microduck-motor-support/iterations/v0.0.1/cad/part.py:7</code></li><li><code>ce-parts/microduck-motor-support/iterations/v0.0.1/docs/README.md:3</code></li><li><code>ce-parts/microduck-robot-hat-pcb/component.json:13</code></li><li><code>ce-parts/microduck-soft-mouth-top/component.json:11</code></li><li><code>ce-parts/microduck-soft-mouth-top/iterations/v0.0.1/cad/part.py:7</code></li><li><code>ce-parts/microduck-soft-mouth-top/iterations/v0.0.1/docs/README.md:3</code></li><li><code>ce-parts/microduck-sole-left/component.json:11</code></li><li><code>ce-parts/microduck-sole-left/iterations/v0.0.1/cad/part.py:7</code></li><li><code>ce-parts/microduck-sole-left/iterations/v0.0.1/docs/README.md:3</code></li><li><code>ce-parts/microduck-sole-right/component.json:11</code></li><li><code>ce-parts/microduck-sole-right/iterations/v0.0.1/cad/part.py:7</code></li><li><code>ce-parts/microduck-sole-right/iterations/v0.0.1/docs/README.md:3</code></li><li><code>ce-parts/microduck-top-head-shell/component.json:11</code></li><li><code>ce-parts/microduck-top-head-shell/iterations/v0.0.1/cad/part.py:7</code></li><li><code>ce-parts/microduck-top-head-shell/iterations/v0.0.1/docs/README.md:3</code></li><li><code>ce-parts/microduck-trunk-shell-left/component.json:11</code></li><li><code>ce-parts/microduck-trunk-shell-left/iterations/v0.0.1/cad/part.py:7</code></li><li><code>ce-parts/microduck-trunk-shell-left/iterations/v0.0.1/docs/README.md:3</code></li><li><code>ce-parts/microduck-trunk-shell-right/component.json:11</code></li><li><code>ce-parts/microduck-trunk-shell-right/iterations/v0.0.1/cad/part.py:7</code></li><li><code>ce-parts/microduck-trunk-shell-right/iterations/v0.0.1/docs/README.md:3</code></li><li><code>research/01-product-and-specs.md:389</code></li><li><code>tools/head_eye_ring_shelve.py:28</code></li></ul>
+<h3>old pin 5946fd9 lines — 3</h3><ul><li><code>LICENCE-POSITION.html:184</code></li><li><code>LICENCE-POSITION.html:71</code></li><li><code>research/02-repos-and-code.md:29</code></li></ul>
+<h3>tof hedged lines — 11</h3><ul><li><code>LICENCE-POSITION.html:190</code></li><li><code>SPEC.html:122</code></li><li><code>SPEC.md:127</code></li><li><code>ce-parts/microduck-robot-hat-pcb/iterations/v0.0.1/cad/part.py:19</code></li><li><code>research/01-product-and-specs.md:376</code></li><li><code>research/02-repos-and-code.md:28</code></li><li><code>research/microduck-elec-grep.txt:424</code></li><li><code>research/microduck-elec-grep.txt:428</code></li><li><code>tools/internals_render.py:87</code></li><li><code>wiring/README.md:191</code></li><li><code>workflows/w3-electronics.js:12</code></li></ul>
 </section></div></body></html>

diff --git a/tools/gen_upstream_develop.py b/tools/gen_upstream_develop.py
@@ -63,7 +63,9 @@ lic_lines = [(i + 1, l) for i, l in enumerate(readme) if "licen" in l.lower() or
 lic_quote = "\n".join(f"{n}: {l}" for n, l in lic_lines)
 
 # ---- our own documents that carry a number this source moved or superseded ----
+SELF_TOOLS = ("tools/gen_upstream_develop.py", "tools/upstream_meshdiff.py", "tools/upstream_mjcfdiff.py", "tools/upstream_render.py")
 def repo_hits(pattern, exclude=("out/", "reference/", "research/raw/", "trash/", ".git/", "__pycache__", "node_modules")):
+    """Every line in OUR repo (not out/, reference/, raw mirrors, or this lane's own instruments) matching `pattern`."""
     hits = []
     for root, dirs, fs in os.walk(R):
         rel = os.path.relpath(root, R) + "/"
@@ -73,6 +75,8 @@ def repo_hits(pattern, exclude=("out/", "reference/", "research/raw/", "trash/",
             if f.endswith((".png", ".jpg", ".stl", ".step", ".glb", ".pdf", ".mp4", ".bin", ".pyc")):
                 continue
             p = os.path.join(root, f)
+            if os.path.relpath(p, R) in SELF_TOOLS:
+                continue
             try:
                 for i, line in enumerate(open(p, errors="ignore")):
                     if re.search(pattern, line):
@@ -132,7 +136,7 @@ findings = [
   "changes_what": "out/sim-sweep/scene_walk_allcollisions.xml and every 'allcollisions' run in SIMULATION.html modelled a robot whose thighs and egg shells cannot touch the floor. Sit/stand/roulade and fall results that rest on that model need re-judging against robot_allcollisions.xml (F7)."},
  {"id": "F9", "finding": "Licence, settled from the primary text: README.md:260-261 at 29e887e reads 'This project is licensed under the Apache 2.0 License. See the LICENSE file for details.' / '3D model files are licensed under Creative Commons BY-SA-NC.' — no version number, and the CC text is not shipped (LICENSE is Apache-2.0 only). The same two lines were at README.md:195-196 in our 5946fd9 copy.",
   "evidence": "reference/pollen-microduck-rl-develop/microduck_rl_README.md:258-261; reference/pollen-microduck-rl-develop/LICENSE-Apache-2.0.txt",
-  "changes_what": "Cite 'CC BY-SA-NC (version not stated)'. " + (f"{len(licence_40_hits)} lines of ours assert '4.0' that the source does not: " + ", ".join(h for h in licence_40_hits if not h.startswith("research/")) if licence_40_hits else "No file of ours asserts a version.") + " — ce-parts/microduck-eye-ring/component.json:15 already has it right ('version not stated'); the two '4.0' strings are lane A's to drop."},
+  "changes_what": "Cite 'CC BY-SA-NC (version not stated)'. " + (f"{len([h for h in licence_40_hits if not h.startswith('research/')])} lines of ours assert '4.0' that the source does not, across {len(set(h.split('/')[1] for h in licence_40_hits if h.startswith('ce-parts/')))} ce-parts folders (component.json, cad/part.py, docs/README.md) plus tools/head_eye_ring_shelve.py:28 — full list in §11" if licence_40_hits else "No file of ours asserts a version.") + ". ce-parts/microduck-eye-ring/component.json:15 already has it right ('version not stated'). Each folder's owner drops the '4.0' in an append-only ledger row; this lane does not edit other lanes' folders."},
  {"id": "F10", "finding": "Runtime constants read off pollen-robotics/microduck (bc41fb5) corroborate SPEC.md: mouth travel -5 deg closed / +30 deg open (duck-control/src/model.rs:62-63); battery window 6.6-8.2 V (model.rs:109,113 BATTERY_EMPTY_V/BATTERY_FULL_V); servo position gain 200 (deploy/robotd.toml:136 'gain = 200', joints_properties.xml '200 kp', microduck_constants.py kp_fw=200); IDs 30-34 = neck, head, mouth (model.rs:17); bus /dev/ttyS2 at 50 Hz (robotd.toml:20,41). The ToF is named specifically: 'tof VL53L8CX · 15 Hz · 8x8 · 48/64 ranged · 0.12-3.54 m' (docs/robot/cheatsheet.md:691) where SPEC.md §5 hedges 'VL53L5CX/L8CX'. BAM actuator domain randomisation upstream: vin 6.5-8.2 V, load sag gain 0-0.2, vin_min 6.0, 3-6 tick delay, backlash +-1 deg (2 deg total).",
   "evidence": "reference/pollen-microduck-rl-develop/sibling-pollen-microduck-main/deploy/robotd.toml; microduck_constants.py:132-144; microduck_rl add_backlash.py:26-28",
   "changes_what": ("SPEC.md §5 ToF row can name VL53L8CX (cheatsheet line 691 is the live monitor's own header). " + (", ".join(tof_hits) if tof_hits else "")) },
@@ -228,6 +232,8 @@ H.append(f"""<!doctype html><html lang="en"><head><meta charset="utf-8"><meta na
  table.data{{font-size:12.5px;border-collapse:collapse;width:100%}} table.data th,table.data td{{padding:3px 6px;border-bottom:1px solid var(--hair);text-align:left;vertical-align:top}}
  table.data td code{{font-size:11.5px}} figure{{margin:12px 0}} figure img{{width:100%;background:#fff;border:1px solid var(--hair)}} figcaption{{font-family:var(--sans);font-size:12.5px;color:var(--ink-2)}}
  pre.q{{font-size:12px;background:#faf8f3;border-left:3px solid var(--hair);padding:8px 12px;white-space:pre-wrap}}
+ /* 11-column mesh table MEASURED 1015 px in an 840 px sheet at the inherited size (shot_page 2026-09-03): fixed layout + wrapping keeps every column on the printed page */
+ #meshes table.data{{font-size:10.5px;table-layout:fixed;width:100%}} #meshes td,#meshes th{{overflow-wrap:anywhere}} #meshes table.data th,#meshes table.data td{{padding:2px 3px}} #meshes td code{{font-size:10px}}
  #findings table.data{{table-layout:fixed}} #findings td:nth-child(1){{width:32px}} #findings td:nth-child(2){{width:44%}} #findings td:nth-child(3){{width:22%}} #findings td{{overflow-wrap:anywhere}}
 </style></head><body><div class="wrap">
 <p class="backlink"><a href="../../INDEX.html">← Repository index</a> · <a href="../../GOAL.md">GOAL.md</a> · <a href="../../SPEC.md">SPEC.md</a></p>
